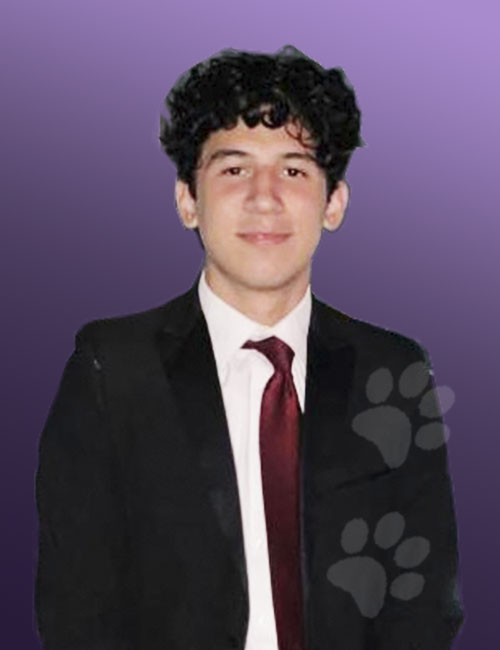
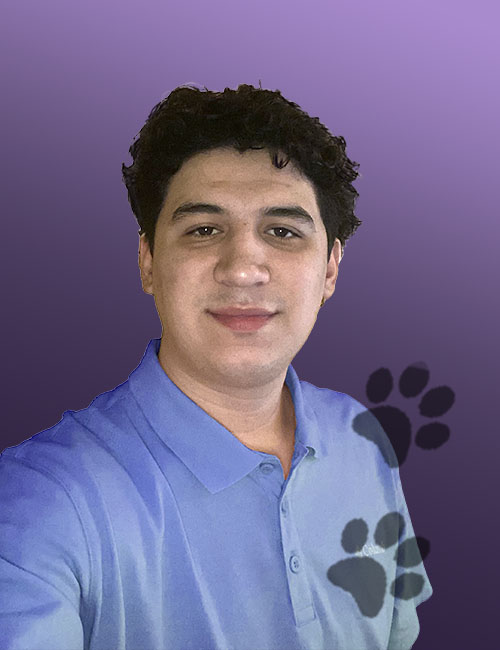
front-about-style: changed some photos

diff --git a/Frontend/assets/css/common.css b/Frontend/assets/css/common.css
@@ -47,7 +47,7 @@ body {
 }
 
 main {
-    min-height: calc(80vh + 1vw);
+    min-height: calc(80vh + 2vw);
 }
 
 input, textarea {
